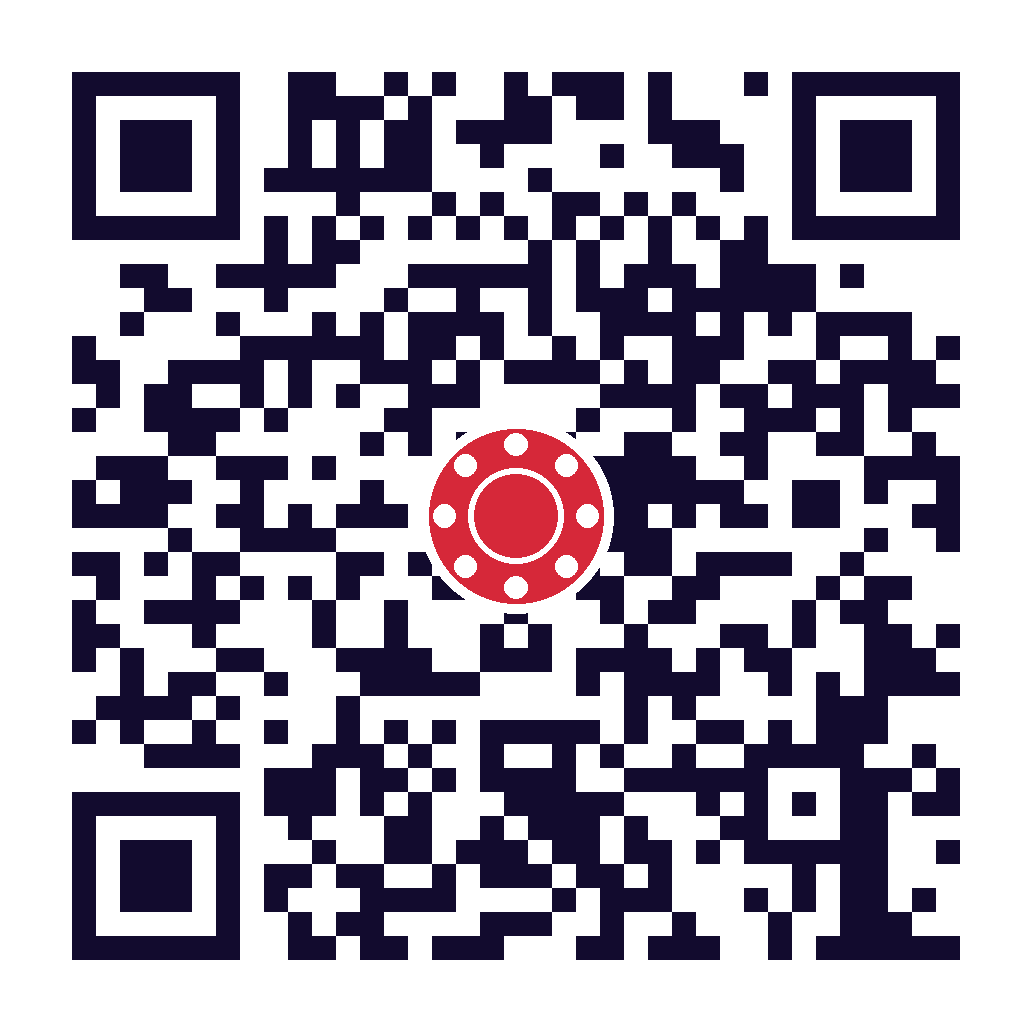
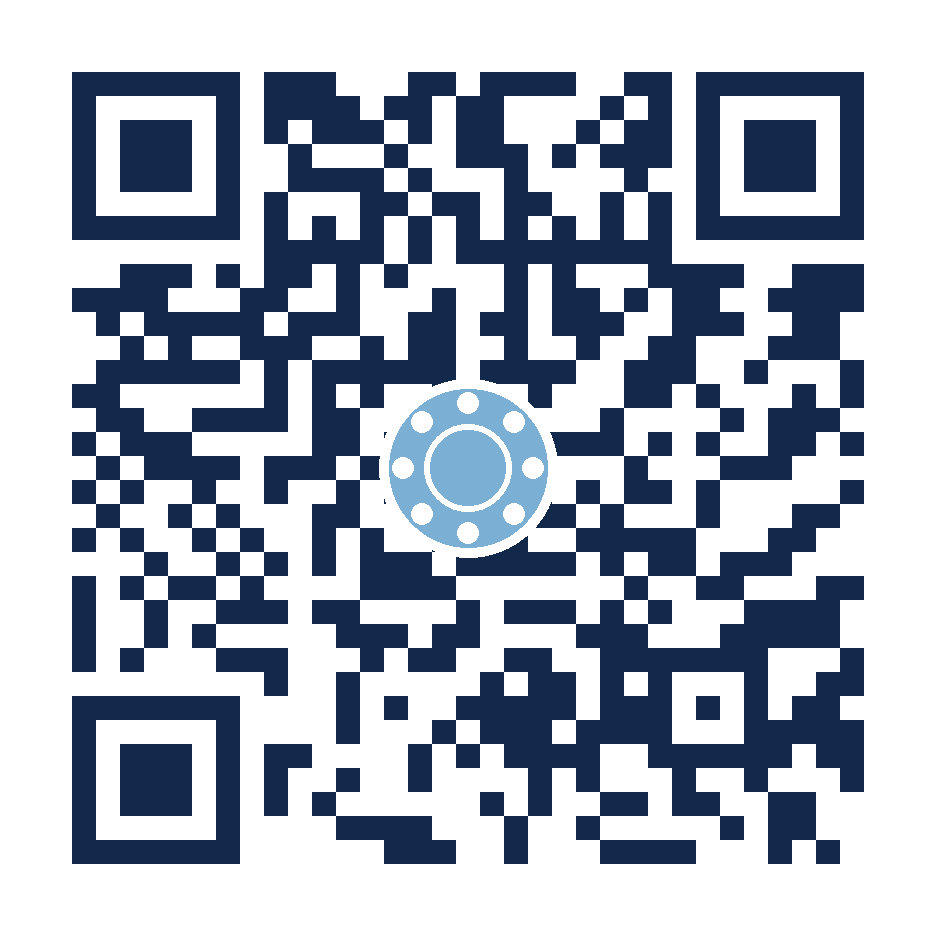
QR code for the renamed repo (yyk-ai.github.io/paytynbd)
Claude-Session: https://claude.ai/code/session_01JDLD77CeGovEp8753iL8Ru

diff --git a/README.md b/README.md
@@ -12,7 +12,7 @@ in your favor", a mockingjay pin and "— from Yusuf". Replay + photo wall at th
 ## Put it online (GitHub Pages)
 1. Repo **Settings → General → Danger Zone → Change visibility → Public** (Pages on private repos needs a paid plan).
 2. **Settings → Pages → Build and deployment → Deploy from a branch** → pick this branch, folder `/ (root)` → Save.
-3. After a minute or two it's live at **https://yyk-ai.github.io/aitesting/**, the URL inside `qr-code.png`.
+3. After a minute or two it's live at **https://yyk-ai.github.io/paytynbd/**, the URL inside `qr-code.png`.
 
 ## Tweaks
 - Songs, volumes, photos, chapter titles, the final message and ticker text: the `CONFIG` block at the top of `app.js`.
